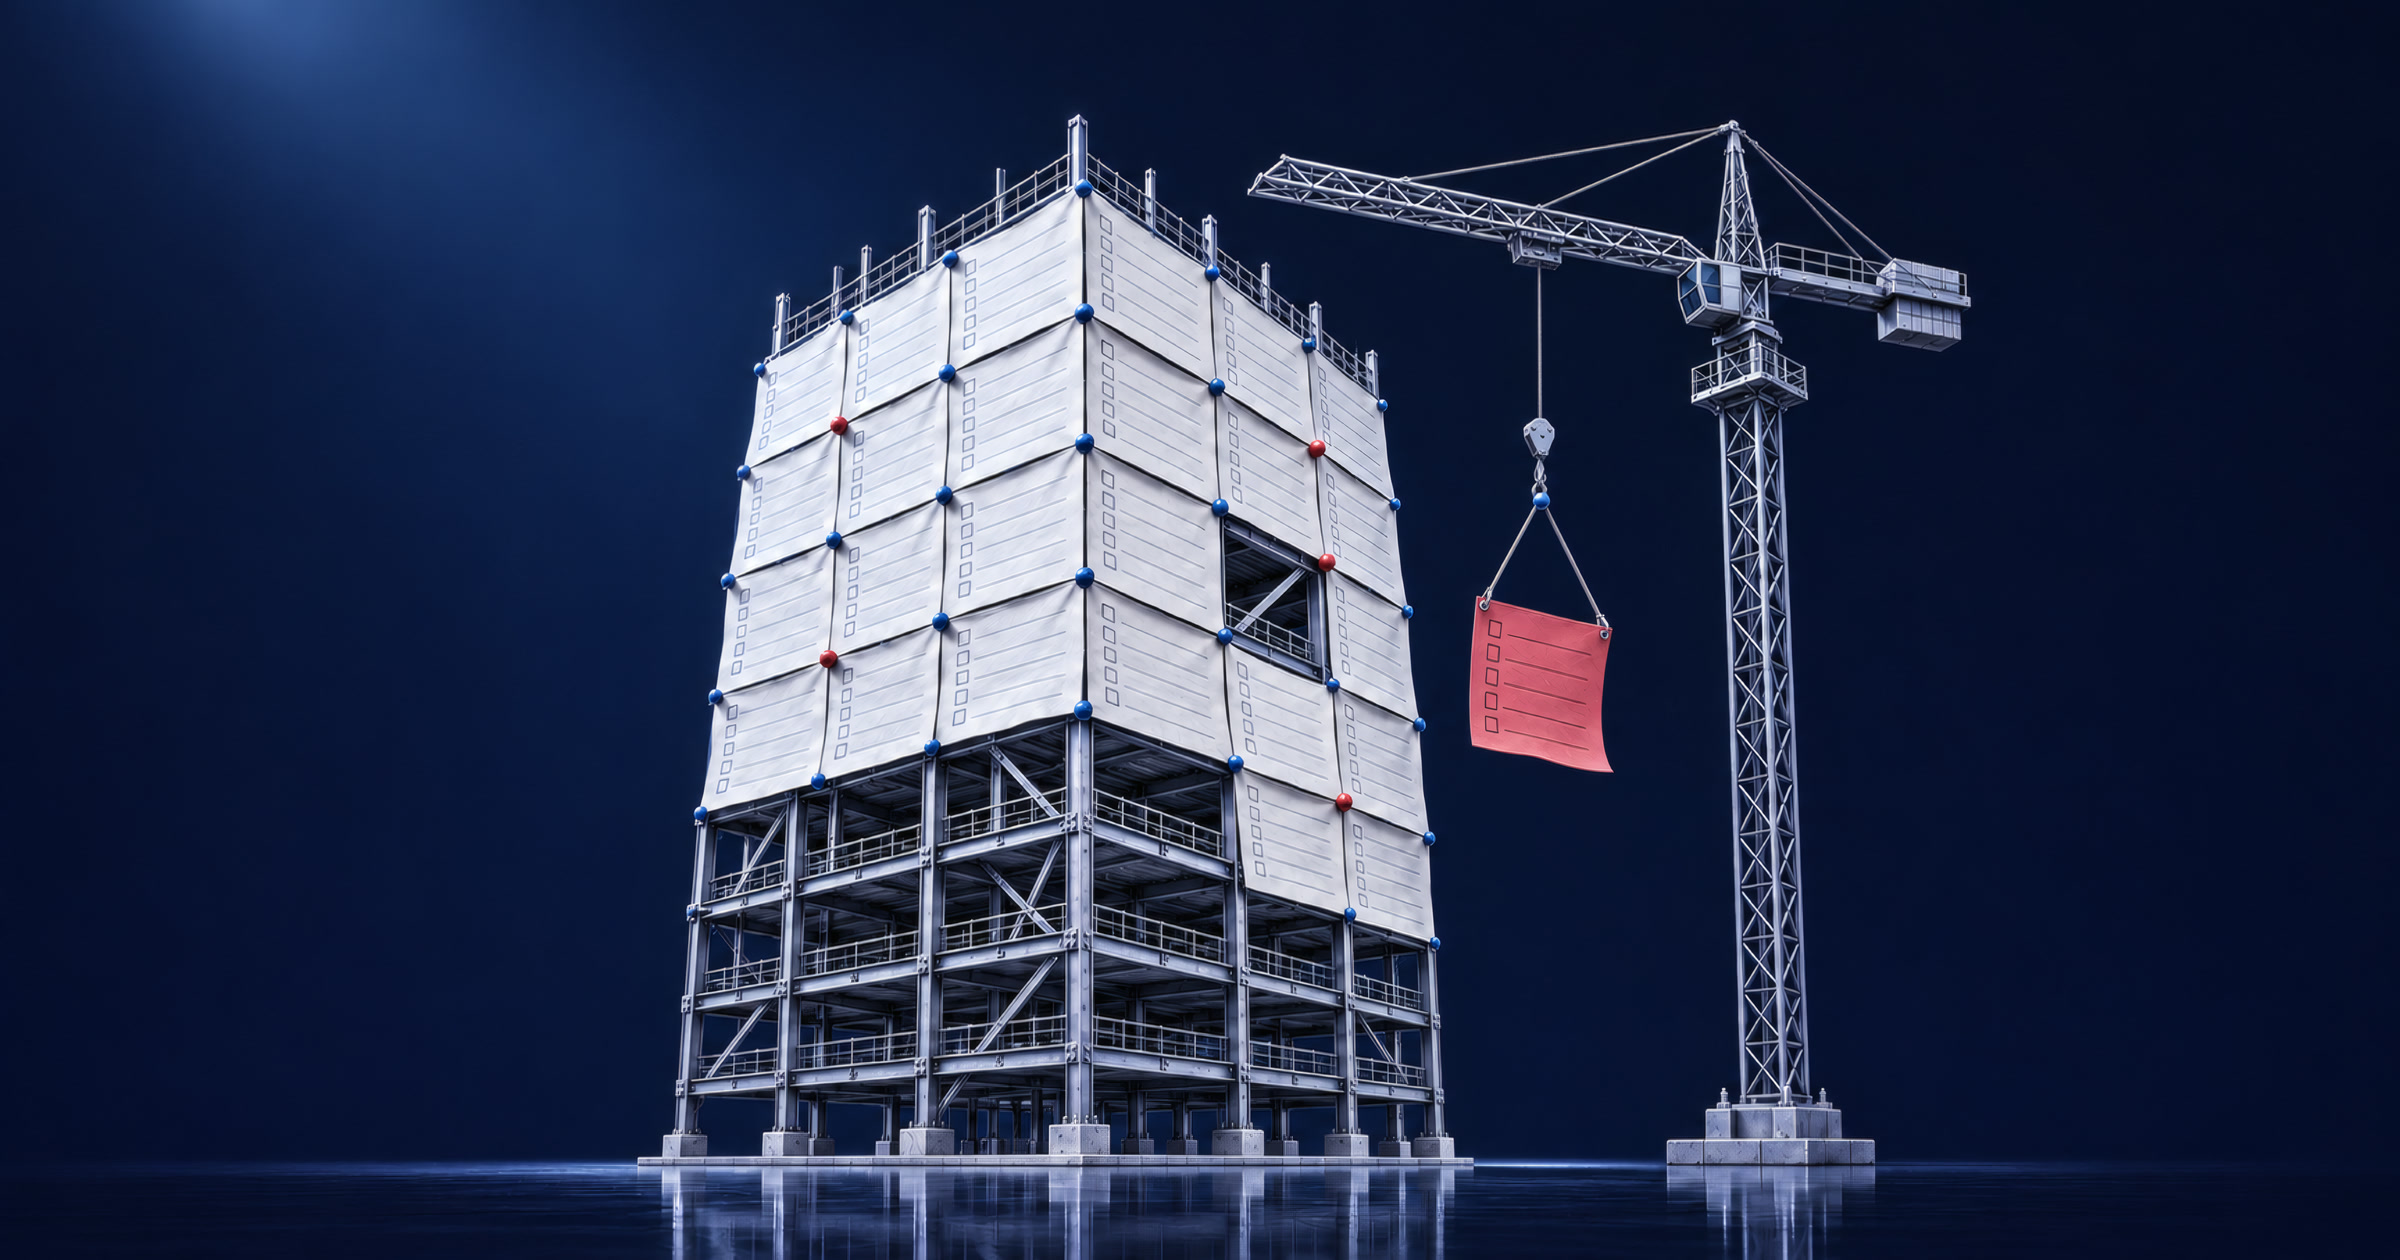
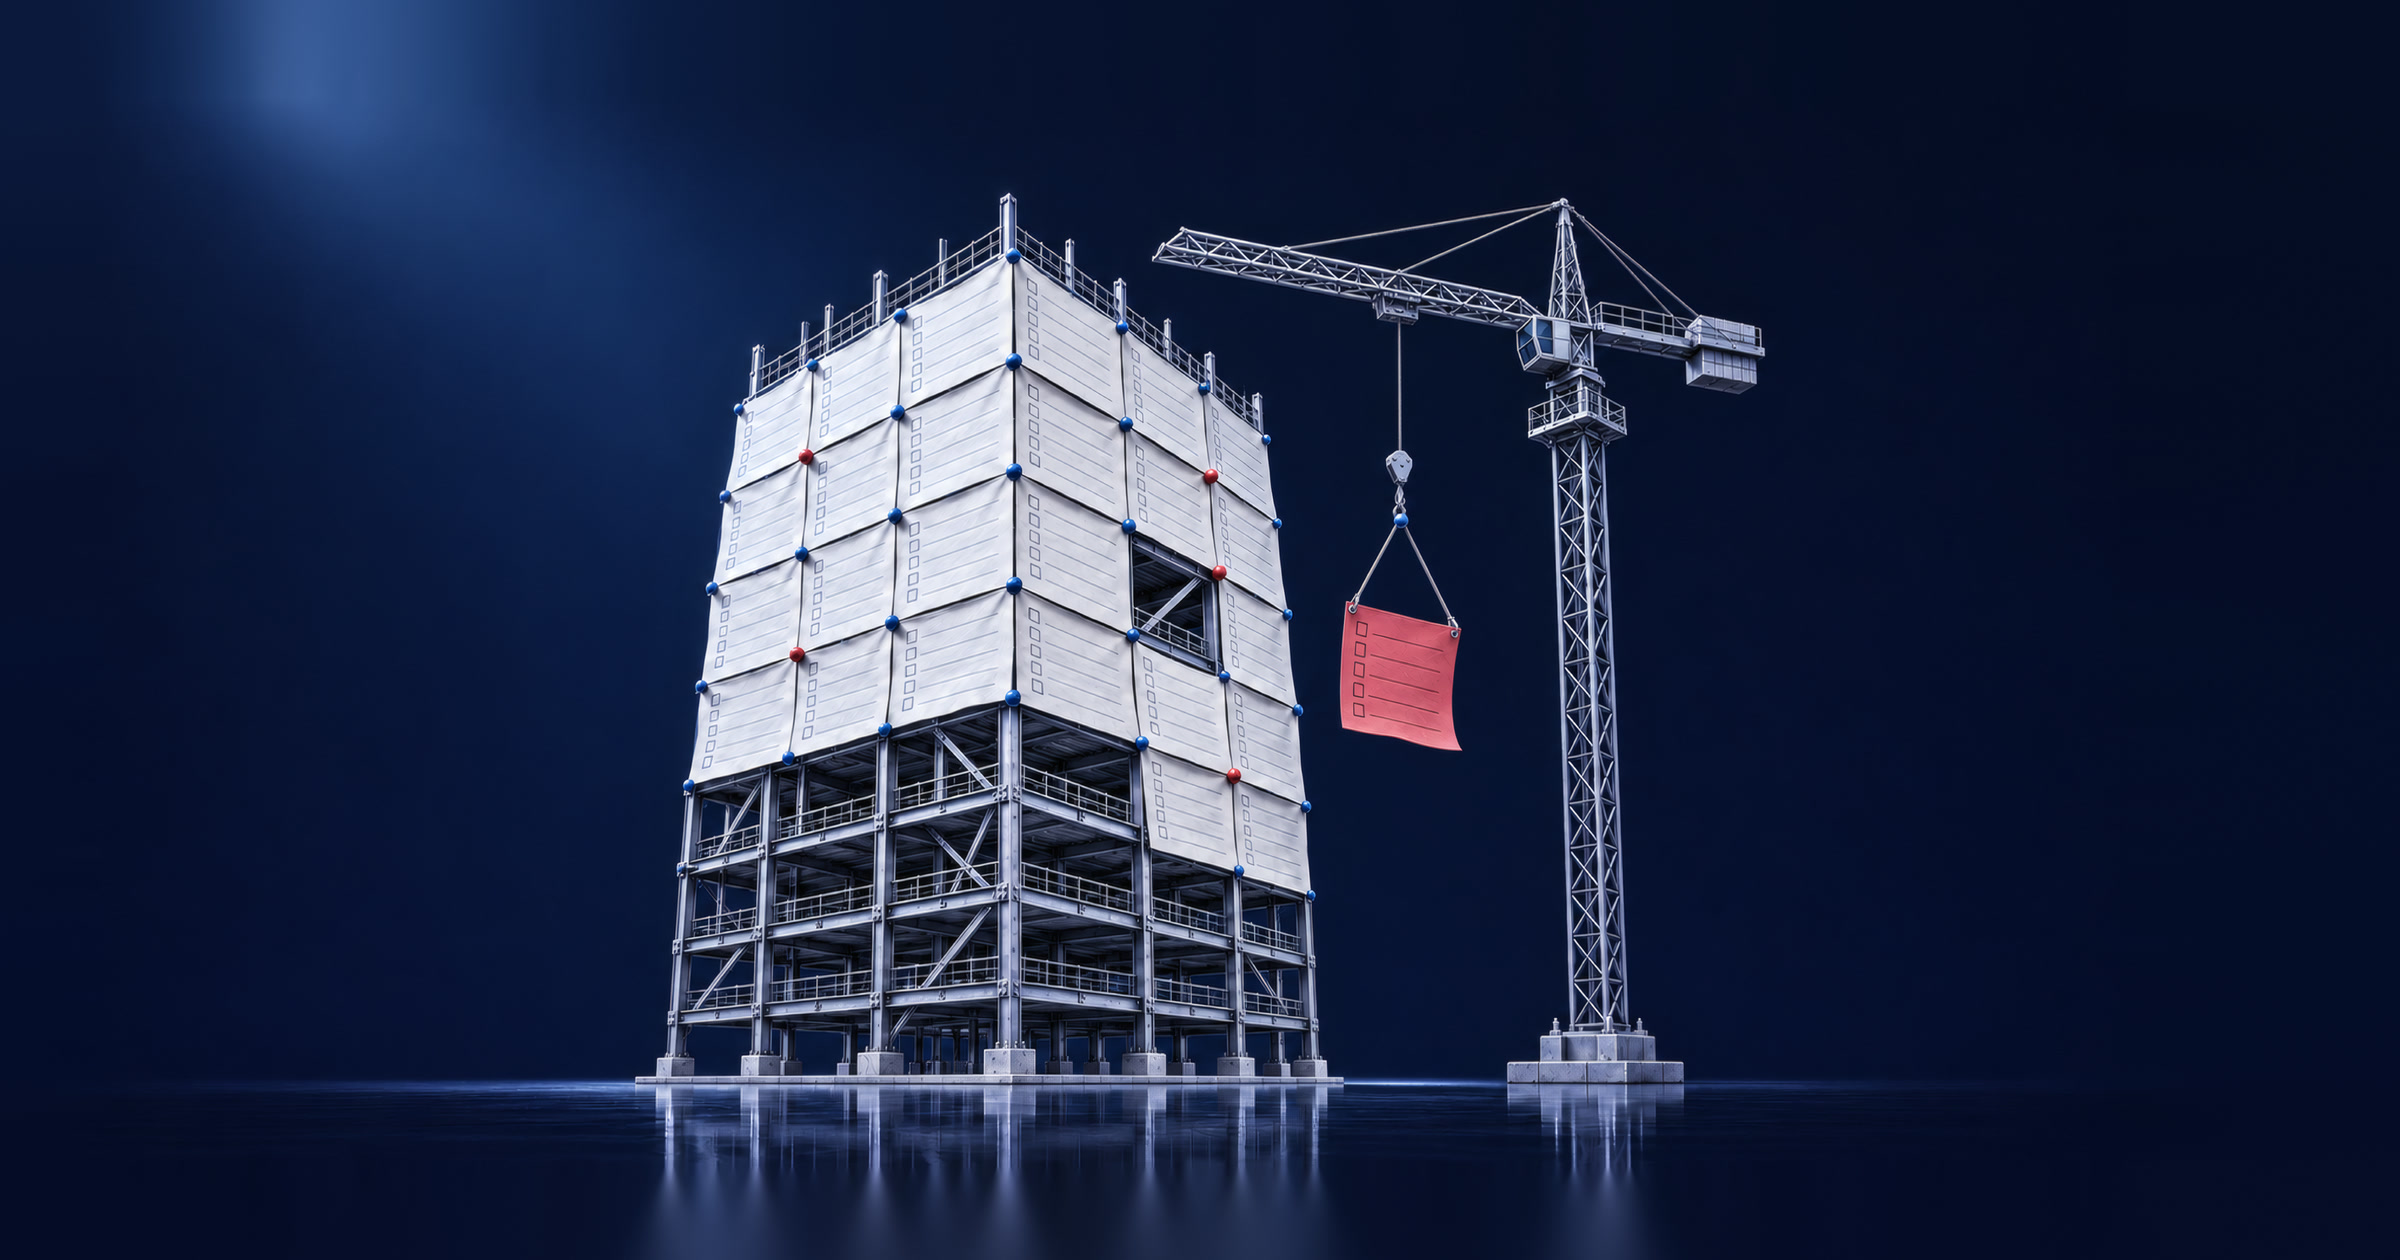
Feature CoverLens on the home page instead of Sales Pilot (#159)

Changed region(s): [[0.0938, 0.0929, 0.875, 1.0], [0.0938, 0.031, 0.1562, 0.1238], [0.0312, 0.0, 0.125, 0.031]]

diff --git a/components/FeaturedProjects.jsx b/components/FeaturedProjects.jsx
@@ -25,15 +25,15 @@ const FEATURED = [
     image: "/portfolio/previews/deep-brainwatch.jpg",
   },
   {
-    id: "sales-pilot",
-    title: "Sales Pilot",
-    client: "Symfa",
-    location: "Miami · United States 🇺🇸",
+    id: "cover-lens",
+    title: "CoverLens",
+    client: "GNP Brokerage",
+    location: "New York · United States 🇺🇸",
     description:
-      "An end-to-end AI system that automates outbound lead generation by scoring jobs, contacts, and companies using hybrid heuristic-embedding models. It transforms slow manual sourcing into a scalable, data-driven workflow that dramatically cuts time-to-lead from days to minutes while boosting targeting accuracy and conversion potential.",
-    stack: ["Python", "OpenAI API", "scikit-learn", "DVC", "CI/CD", "LLM"],
-    link: "/portfolio/sales-pilot",
-    image: "/portfolio/previews/sales-pilot.jpg",
+      "An AI document pipeline for an insurance compliance platform that checks subcontractor insurance against project requirements. It reads certificates, policies and endorsements into structured records with LlamaCloud, and matches requirement wording by vector and full-text search over pgvector behind a two-signal gate. A deterministic grader decides pass or fail, and the wording gate was calibrated on 17 cases from two vendors' policy bundles, replacing manual document review.",
+    stack: ["Python", "FastAPI", "LlamaCloud", "OpenAI", "pgvector"],
+    link: "/portfolio/cover-lens",
+    image: "/portfolio/previews/cover-lens.jpg",
   },
   {
     id: "immune-profiler",

diff --git a/tests/homepage.spec.ts b/tests/homepage.spec.ts
@@ -561,7 +561,7 @@ test.describe("Homepage - Featured Projects Section", () => {
 
     const projects = [
       "Deep BrainWatch",
-      "Sales Pilot",
+      "CoverLens",
       "Immune Profiler",
       "LayerWise",
     ];
@@ -584,7 +584,7 @@ test.describe("Homepage - Featured Projects Section", () => {
     // Preview images go through next/image, so match them by alt text
     for (const title of [
       "Deep BrainWatch",
-      "Sales Pilot",
+      "CoverLens",
       "Immune Profiler",
       "LayerWise",
     ]) {
@@ -598,7 +598,7 @@ test.describe("Homepage - Featured Projects Section", () => {
 
     const clients = [
       "Vall d'Hebron Hospital",
-      "Symfa",
+      "GNP Brokerage",
       "Boehringer Ingelheim",
       "Huawei",
     ];

diff --git a/lib/projects.js b/lib/projects.js
@@ -17,7 +17,7 @@ const PROJECTS_DATA = [
     category: "insurtech",
     image: "/portfolio/previews/cover-lens.jpg",
     date: "2026-10",
-    featured: false,
+    featured: true,
   },
   {
     id: "insurecast",
@@ -87,7 +87,7 @@ const PROJECTS_DATA = [
     category: "industry-ai-ml",
     image: "/portfolio/previews/sales-pilot.jpg",
     date: "2025-05",
-    featured: true,
+    featured: false,
   },
   {
     id: "coronary-insight",
